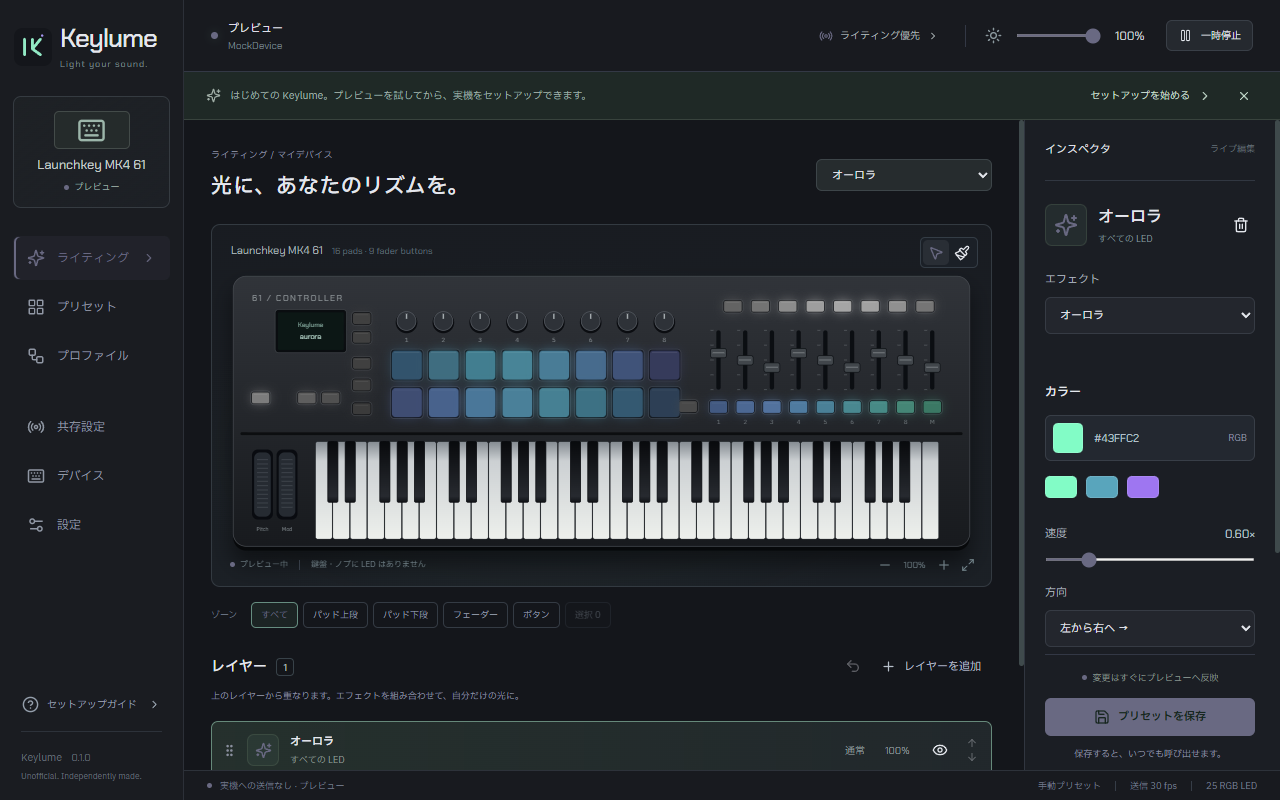
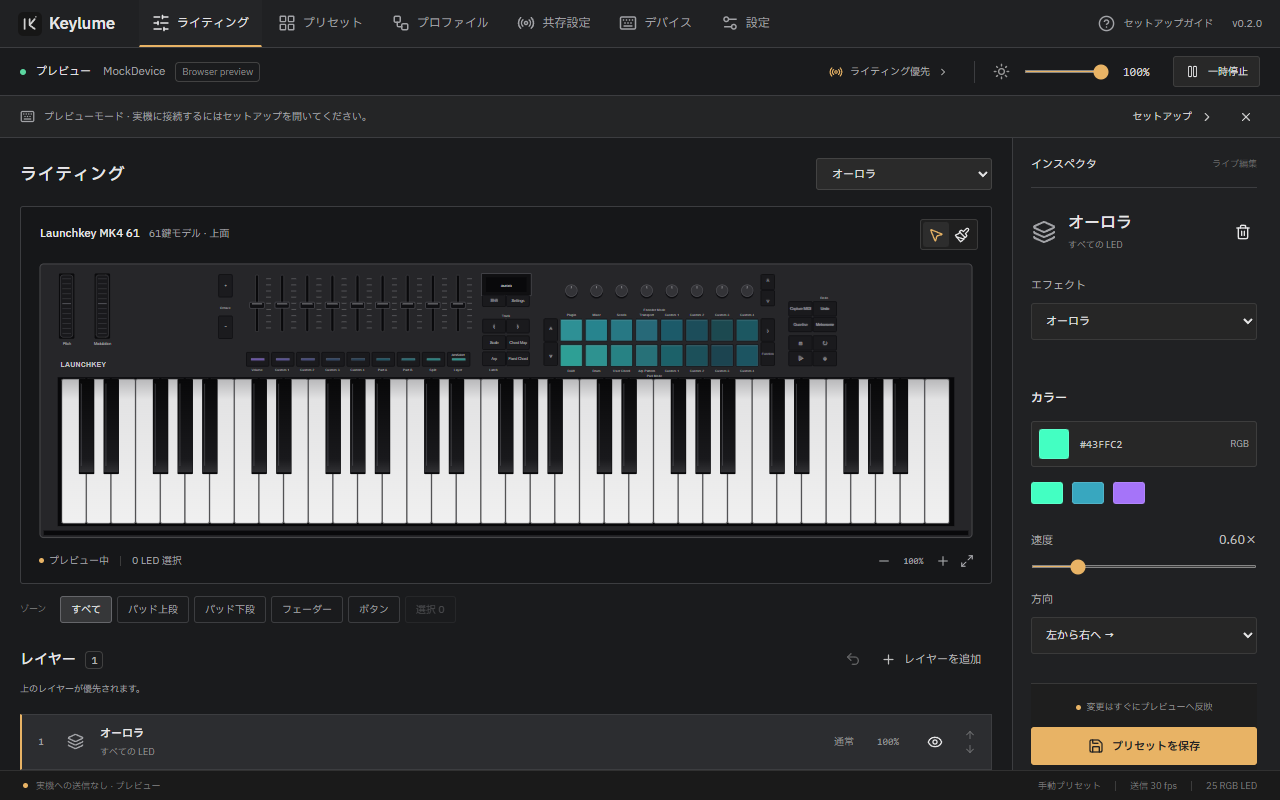
chore(release): prepare v0.2.0 preview

diff --git a/docs/implementation-status.md b/docs/implementation-status.md
@@ -1,6 +1,6 @@
-# v0.1 実装状況
+# v0.2 実装状況
 
-2026-09-16。元の仕様書は `keylume_spec_v0.1.md`。本ファイルは実装と受け入れの差を記録します。
+2026-09-17。元の仕様書は `keylume_spec_v0.1.md`。本ファイルは実装と受け入れの差を記録します。
 
 ## 実装済み・自動検証対象
 
@@ -18,9 +18,11 @@
 | USB・電源・ロック                  | Windows のポート定期検出、隠しウィンドウによる電源 / セッション通知                          |
 | OLED                               | ASCII、1bit 変換、7bit パック、ACK 待ち、タイムアウト。実機では実験的                        |
 | ローカル保存                       | 原子的置換、バックアップ、破損隔離、操作ログ 7 日保持                                        |
-| フォント                           | IBM Plex Sans JP / Chakra Petch を npm パッケージからオフライン同梱                          |
+| フォント                           | IBM Plex Sans JP を npm パッケージからオフライン同梱、数値はシステム等幅フォント             |
+| 61鍵本体図                         | 公式の上面写真・ハードウェア図に基づく配置、旧既定配置の安全な移行                           |
+| 更新確認                           | GitHub Releasesを起動時・12時間ごとに確認、手動確認、アプリ内/常駐時の通知                    |
 
-## v0.1 の制約・未実装の細部
+## 制約・未実装の細部
 
 - **実機受け入れは未完了。** RGB ID、単色ボタンの有無・種別、DAW Drum、機種識別応答、OLED ACK、継続送信、DAW ごとの挙動は確認待ちです。
 - 61 鍵のモデル名と DAW ポートを特定できない場合は送信しません。機種固有 inquiry バイトによる判定は検証待ちです。
@@ -31,7 +33,7 @@
 - 同梱のパレット RGB は近似値。ハードウェアエフェクトは単独レイヤーかつ互換性のある色補正設定で使用し、減光や合成時はソフトウェア描画に切り替わります。
 - OLED の日本語は文字列では送信できないため、プリセット ID を表示します。bitmap の終端は正規の SysEx 終端 F7 に固定しています。未終端の 7F メッセージは送信しません。
 - MIDI 診断モニタは直近 100 メッセージのメモリ内表示です。操作ログはディスク保存しますが、全 MIDI バイト列のファイル記録は未実装です。
-- OS 通知は未実装。ウィンドウ表示中のトーストと診断メッセージで通知します。
+- Windowsの通知センターへの通知は未実装。更新はアプリ内のバナーと常駐時のネイティブダイアログ、その他はトーストと診断メッセージで通知します。
 - 60 Hz 描画 / 設定 fps 送信は実装済みですが、CPU 0.5% / 3%、非表示メモリ 40 MB、入力遅延 30 ms、72 時間連続動作は未計測です。
 - スリープ通知から実際の suspend までの解放完了タイミングは実機検証が必要です。復帰世代番号を保持し、コアが suspend 通知を処理する前に停止しても復帰時に再初期化します。
 - Phase 3（DAW レイヤー合成、写真キャリブレーション、画面同期、macOS の正式対応、他モデル）は実装していません。

diff --git a/docs/releases/v0.2.0.md b/docs/releases/v0.2.0.md
@@ -1,0 +1,32 @@
+# Keylume v0.2.0 Preview
+
+UI と Launchkey MK4 61 の本体図を修正し、自動アップデート確認を追加しました。
+
+## 変更点
+
+- 装飾を抑えたダークUIと上部ナビゲーションに変更。編集領域と設定の読みやすさを優先しました。
+- **61鍵モデルの公式写真・ハードウェア図に合わせて本体図を再構築**。左のホイール・9フェーダー、中央OLED、右の8エンコーダーと16パッド、トランスポート、61鍵の位置・比率を修正しました。
+- エディターとプリセット一覧で同じ本体図を使用。光の発生位置、選択範囲、200%までの拡大表示を揃えました。
+- 既定のv0.1.0レイアウトを安全に移行。カスタムMIDIアドレス、LED種別、検証状態を保持し、手動で座標を変更したレイアウトは維持します。
+- 起動時と12時間ごとにGitHub Releasesを確認し、新しいWindows版を画面上またはトレイ常駐時に案内します。手動確認、自動確認のオフ、Preview版の選択、「あとで」に対応しました。
+
+## インストール
+
+**v0.1.0 からは、この版を手動でインストールしてください。自動更新確認は v0.2.0 以降の機能です。** 更新通知からリリースページを開き、ダウンロードしたインストーラーをご自身で実行する方式です。
+
+- `Keylume_0.2.0_x64-setup.exe` — Windows インストーラー
+- `Keylume_0.2.0_windows-x64.zip` — 展開して `Keylume.exe` を実行
+- `SHA256SUMS` / `build-provenance.json` / `verification.json` — ハッシュ・ビルド元・配布バイナリの検証結果
+
+Windows 11 x64 / WebView2 Runtime が必要です。コード署名はありません。既存設定は `%APPDATA%\Keylume` に保持します。
+
+## 検証と制約
+
+公開パイプラインでRust・フロントエンド・Edge操作テスト、Clippy、Windowsビルドと配布バイナリの7項目のMockDevice自己テストを実行します。更新通知の通信は描画とMIDI処理から独立しています。
+
+実機の発光、MIDIアドレス、OLED、各DAWとの共存、スリープ、72時間稼働は引き続き未検証です。本体図の修正は実機の動作確認を代替するものではありません。Novation / Focusriteとは関係のない非公式ソフトです。
+
+- [操作説明](https://github.com/lingmulongtai/Keylume/blob/v0.2.0/README.md)
+- [アップデートの動作](https://github.com/lingmulongtai/Keylume/blob/v0.2.0/docs/updates.md)
+- [本体図の根拠と移行仕様](https://github.com/lingmulongtai/Keylume/blob/v0.2.0/docs/device-layout.md)
+- [対応範囲と既知の制約](https://github.com/lingmulongtai/Keylume/blob/v0.2.0/docs/implementation-status.md)

diff --git a/docs/verification.md b/docs/verification.md
@@ -1,4 +1,21 @@
-# 検証記録 — 2026-09-16
+# 検証記録
+
+## v0.2.0 — 2026-09-17
+
+61鍵の本体図、編集UI、更新確認を変更しました。ローカルで Rust 33テスト、Vitest 11テスト、Playwright / Edge 8テスト、TypeScript + Vite、Clippy（全target、警告なし）、書式検査が通過しました。明示実行した WinHTTP → GitHub Releases の実通信テストも1件通過しています。通常のテストでは外部通信を実行しません。
+
+追加テストは旧配置からの移行とバックアップ、校正値・カスタム配置の保持、61鍵の相対配置、クリック領域と本体図の一致、200%拡大時の操作、SemVer比較・Preview版選択・不正リリース除外、通知の抑制、手動要求の合流、更新UIのエラーと再試行を対象とします。1280×800の本体図を目視し、最小1024×680でも全画面を操作確認しました。
+
+| SHA | 件名 | 目的 |
+| --- | --- | --- |
+| `f949777` | feat(ui): replace decorative chrome with a compact editing workspace | 上部ナビゲーションと簡潔な編集UI |
+| `cb1bafb` | fix(dev): exclude generated artifacts from file watching | ビルド中の開発サーバー応答を維持 |
+| `c49bc28` | fix(device): match the Launchkey MK4 61 physical layout | 公式61鍵配置・共通描画・設定移行 |
+| `c3df5a5` | feat(updates): prompt for new Windows releases automatically | 自動/手動/トレイ更新確認と通知 |
+
+公開パイプラインでも検証を行います。配布バイナリの自己テスト結果とビルド元は [v0.2.0 Release](https://github.com/lingmulongtai/Keylume/releases/tag/v0.2.0) の `verification.json` と `build-provenance.json` を参照してください。コード署名、実機発光・OLED・DAW共存、スリープ、72時間稼働は未検証です。
+
+## v0.1.0 — 2026-09-16
 
 Windows 上で v0.1.0 を検証しました。自動受け入れテストは MockDevice を基準にしています。接続済み MIDI ポートの列挙も確認していますが、実機の発光・演奏・DAW 共存の正しさは未確認です。
 
